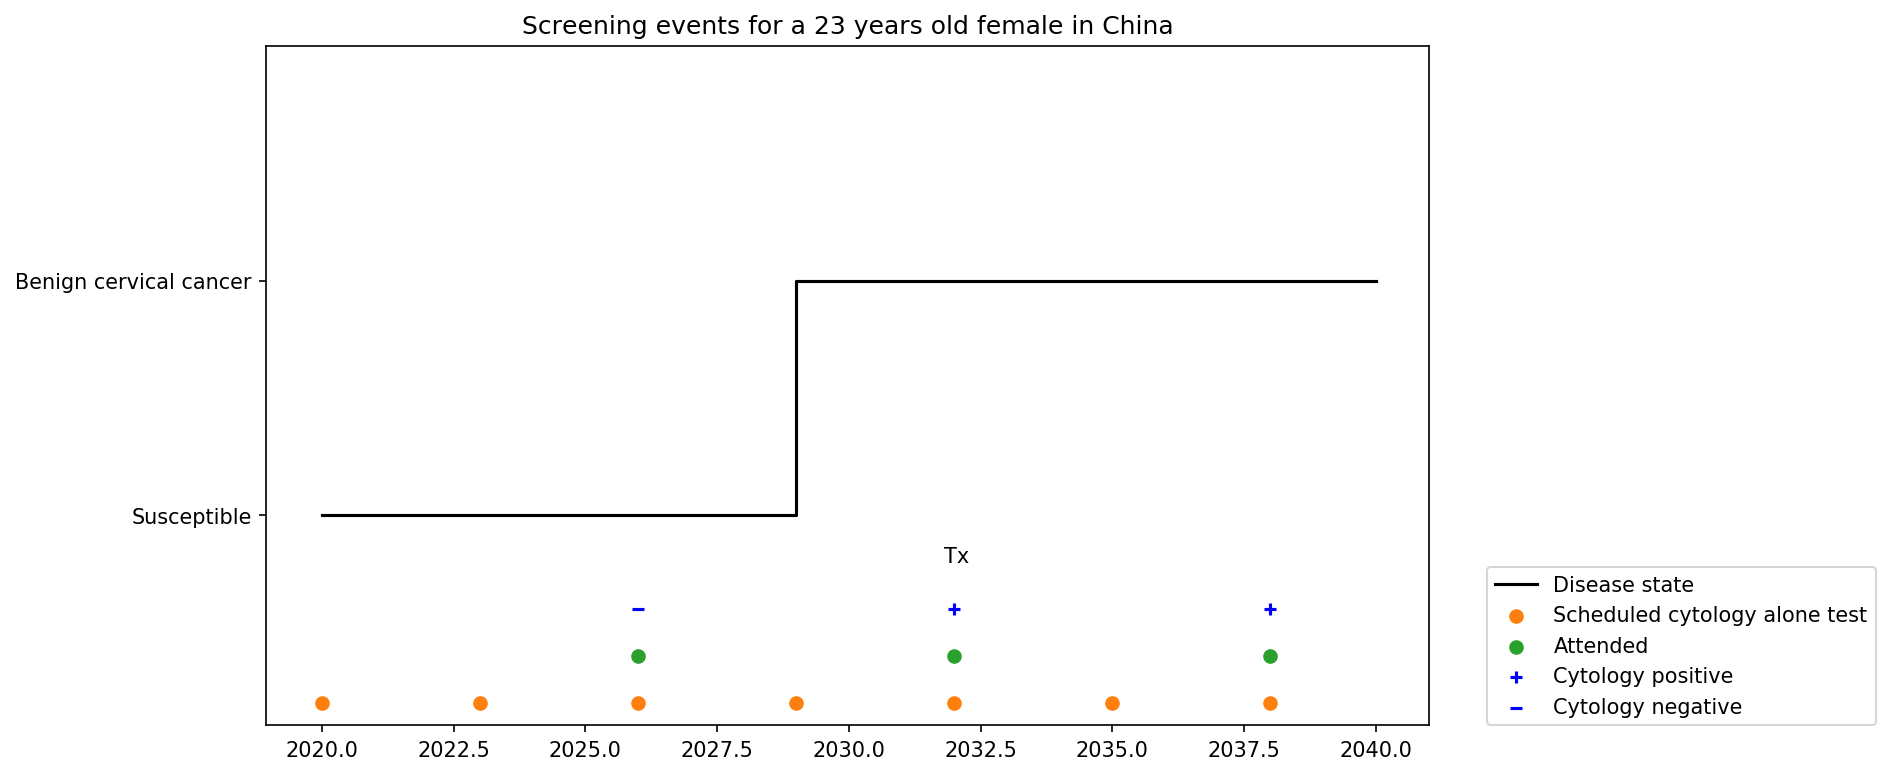
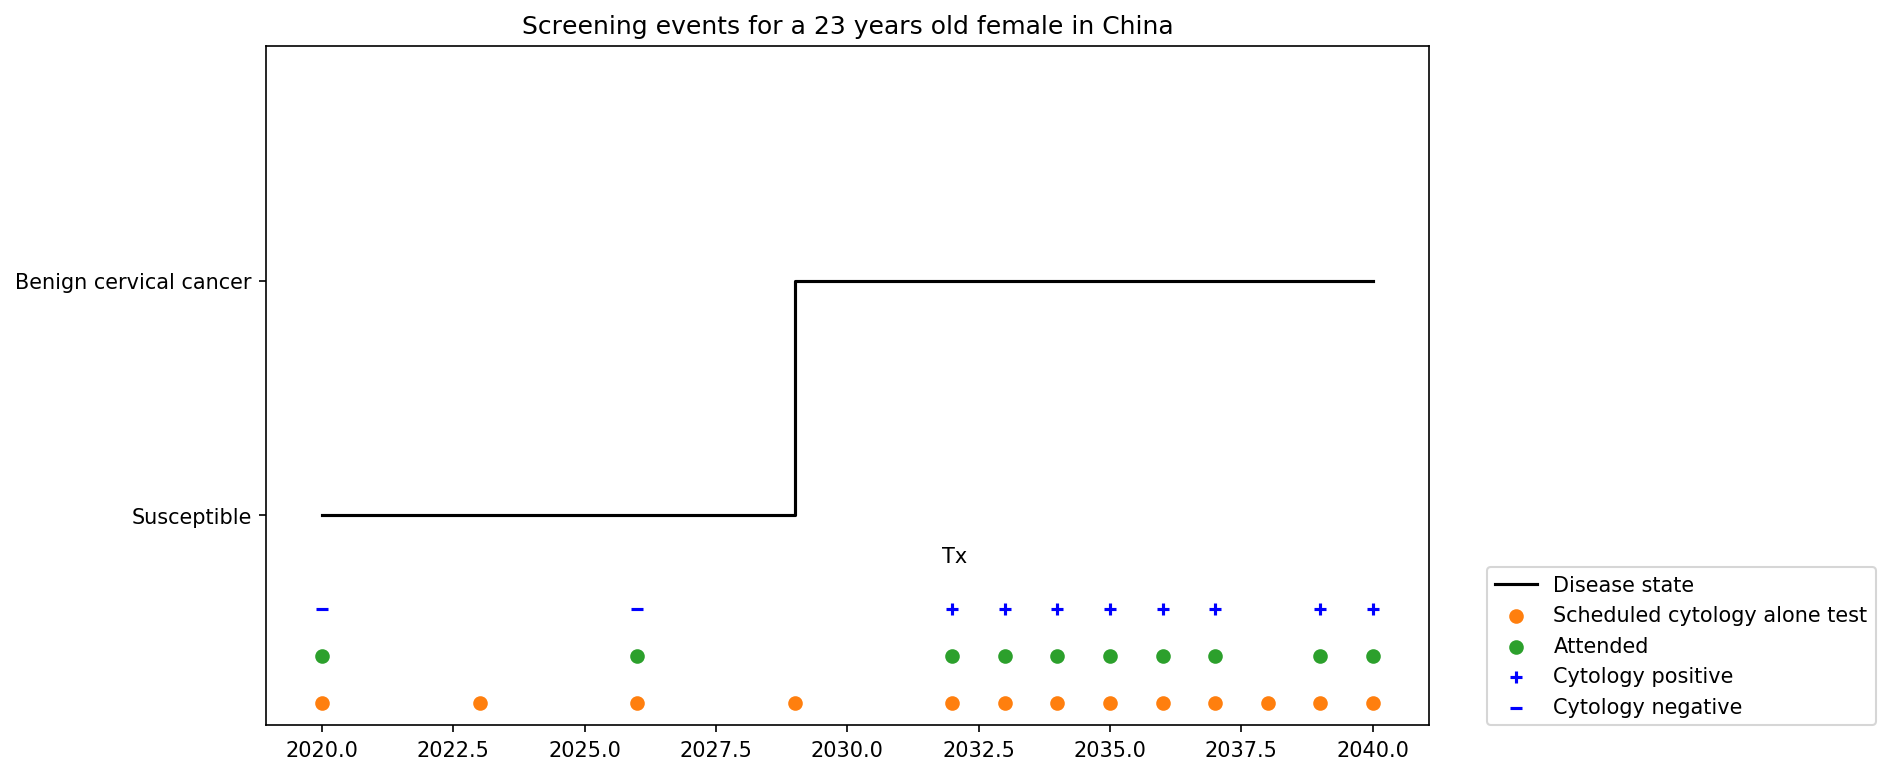
update cervical cancer screening and detection

diff --git a/docs/source/concept_models/vivarium_swissre_cervicalcancer/cervical_cancer_concept_model.rst b/docs/source/concept_models/vivarium_swissre_cervicalcancer/cervical_cancer_concept_model.rst
@@ -49,6 +49,10 @@ Vivarium CSU Cervical Cancer Simulation
      - susceptible
    * - hrHPV
      - high-risk HPV
+   * - S_hrHPV
+     - without high-risk HPV infection
+   * - C_hrHPV
+     - with high-risk HPV infection
    * - BCC
      - benign cervical cancer
    * - ICC
@@ -337,50 +341,58 @@ Cervical cancer screening algorithm was determined by three variables
      - Age
      - Screening technology
      - Screening frequency
-     - Co-test result
+     - Test result
      - Follow-up test
      - Follow-up frequency
    * - A
      - Female
      - 21-29
      - Cytology
-     - every 3 years
-     - 
-     - 
-     - 
+     - in 3 years
+     - Cytology positive
+     - Cytology
+     - in 1 year
+   * - A
+     - Female
+     - 21-29
+     - Cytology
+     - in 3 years
+     - Cytology negative
+     - Cytology
+     - in 3 years
    * - B
      - Female
      - 30-65
      - Cytology plus HPV test
-     - every 5 years
+     - in 5 years
      - HPV negative, Cytology negative
      - Cytology plus HPV test
-     - every 5 years
-   * - C
+     - in 5 years
+   * - B
      - Female
      - 30-65
      - Cytology plus HPV test
-     - every 5 years
+     - in 5 years
      - HPV positive, Cytology negative
-     - Cytology
-     - every year
-   * - C
+     - Cytology plus HPV test
+     - in 1 year
+   * - B
      - Female
      - 30-65
      - Cytology plus HPV test
-     - every 5 years
+     - in 5 years
      - HPV negative, Cytology positive
      - Cytology
-     - every year
-   * - C
+     - in 1 year
+   * - B
      - Female
      - 30-65
      - Cytology plus HPV test
-     - every 5 years
+     - in 5 years
      - HPV positive, Cytology positive
      - Cytology
-     - every year
-   * - D
+     - in 1 year
+   * - C
      - Female
      - <21 or >65
      - No screening
@@ -410,7 +422,7 @@ Cervical cancer screening algorithm was determined by three variables
  - Co-test (cytology plus HPV test) is not recommended for women under 30 
    according to guidelines from American Cancer Society and U.S. Preventive Services Task Force.
  - We are not testing HPV for women under 30 and those follow-up with
-   cytology alone every year in Branch C.
+   cytology alone in one year at Branch B.
  - Women who have been vaccinated or detected BCC and treated should continue 
    to be screened.
 
@@ -419,7 +431,7 @@ In initialization, We assume that
    of the simulation.
  - All simulants are buying insurance on day one of the simulation.
  - For simulants in cervical cancer (CC) state regardless of detection, they have 
-   a transition rate of 0.1 (per person-year) of moving into a recovered (R) state; this results in an average duration in state CC of 10 years. People in state CC and R follow exactly the same screening algorithm, namely branch A, B, or C depending on their age and co-test result if performed. Simulants do not ever make a second cervical cancer claim, therefore the negative screening results were expected for those in R state in order to avoid double counting the CI claim from detected cervical cancer.
+   a transition rate of 0.1 (per person-year) of moving into a recovered (R) state; this results in an average duration in state CC of 10 years. People in state CC and R follow exactly the same screening algorithm, namely branch A, B, or C depending on their age. Simulants do not ever make a second cervical cancer claim, therefore the negative screening results were expected for those in R state in order to avoid double counting the CI claim from detected cervical cancer.
 
 :underline:`II. Screening schedule and attendance`
 
